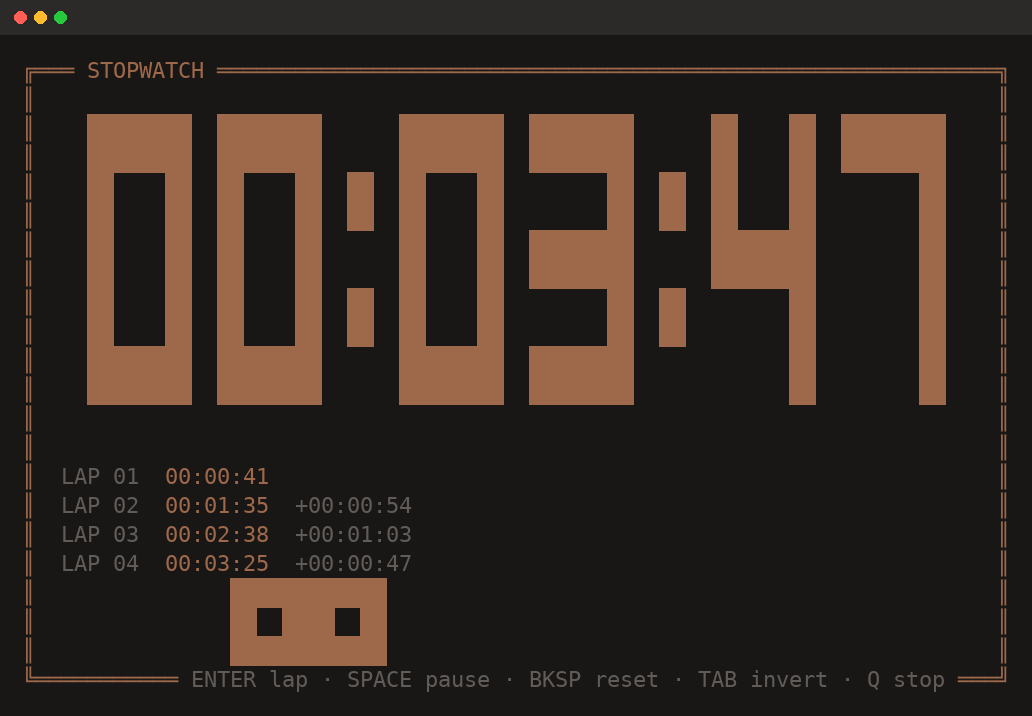
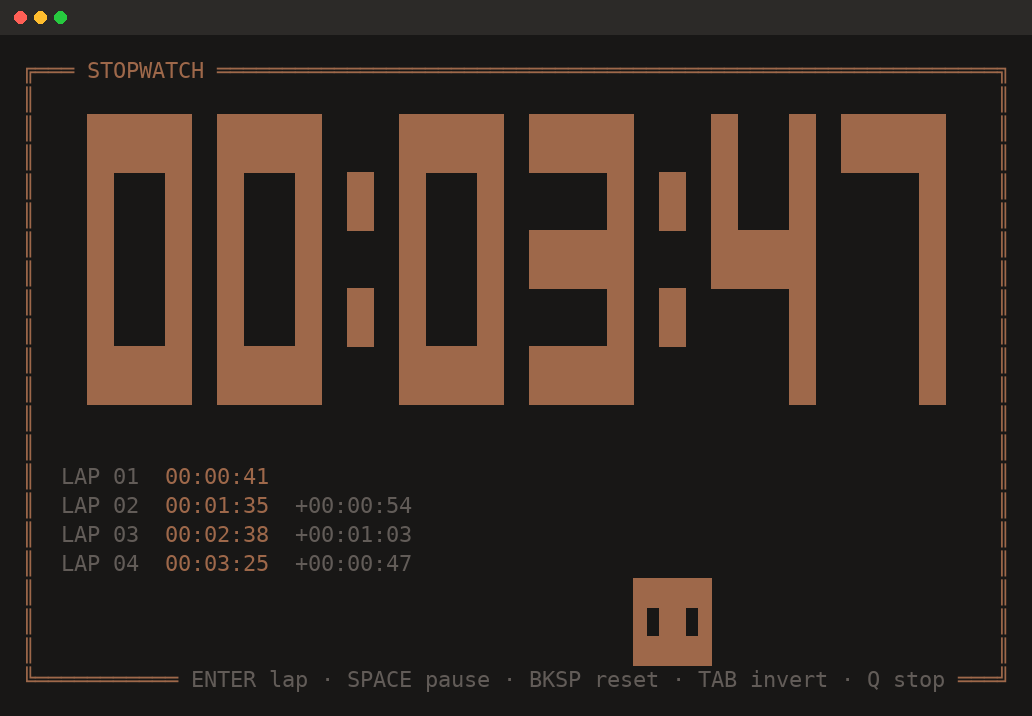
Shrink the slime, fix its blink, give it a random walk
Halve the width by dropping the 2x horizontal tile scaling. The old
blink blanked the top body row and filled the eye row, so what animated
was the line above the eyes rather than the eyes themselves; the body now
holds its shape and blinking only fills the two eye tiles. Replace the
wall-to-wall pacing with a random walk, whose position accumulates in
app.js so renderFrame stays a pure function of the state it is given.

Changed region(s): [[0.2171, 0.7989, 0.3721, 0.9525], [0.5891, 0.7989, 0.7132, 0.9525]]

diff --git a/lib/render.js b/lib/render.js
@@ -149,47 +149,24 @@ function buildLapLines(laps, theme, maxWidth, maxRows) {
   return lines;
 }
 
-// A slime built from the same tiles as the digits. '#' is a lit tile; the eyes
-// are left blank so the row background shows straight through them.
-const SLIME_PIXEL_W = 2;
-const SLIME_ROWS = 3;
-const SLIME_SPRITES = {
-  // Stretched mid-hop, then squashed on landing. Alternating the two while it
-  // travels sideways reads as a hop without needing a taller band.
-  stretch: ['######', '# ## #', '######'],
-  squash: ['      ', '# ## #', '######'],
-  // Eyes closed: asleep while paused, and for a single tick when blinking.
-  shut: ['      ', '######', '######'],
-};
-const SLIME_PIXELS = SLIME_SPRITES.stretch[0].length;
-const SLIME_WIDTH = SLIME_PIXELS * SLIME_PIXEL_W;
+// A slime built from the same tiles as the digits. The eyes are unlit tiles in
+// the middle row — enclosed on every side, so they read as holes in a face
+// rather than notches in the silhouette — and closing them just fills those
+// two tiles back in. The body never changes shape, so nothing flickers.
+const SLIME_OPEN = ['██████', '█ ██ █', '██████'];
+const SLIME_SHUT = ['██████', '██████', '██████'];
+const SLIME_WIDTH = SLIME_OPEN[0].length;
+const SLIME_ROWS = SLIME_OPEN.length;
+const SLIME_MARGIN = 1;
 const BLINK_EVERY = 24;
 
-const SLIME_MARGIN = 1;
+function buildSlimeRows(tick, paused, interior, color, x) {
+  const maxX = Math.max(SLIME_MARGIN, interior - SLIME_WIDTH - SLIME_MARGIN);
+  const left = Math.min(maxX, Math.max(SLIME_MARGIN, x));
+  const asleep = paused || tick % BLINK_EVERY === BLINK_EVERY - 1;
 
-function slimeSprite(tick, paused) {
-  if (paused) return SLIME_SPRITES.shut;
-  // Offset so tick 0 is not a blink — the first frame should have eyes.
-  if (tick % BLINK_EVERY === BLINK_EVERY - 1) return SLIME_SPRITES.shut;
-  return tick % 2 === 0 ? SLIME_SPRITES.stretch : SLIME_SPRITES.squash;
-}
-
-// Bounces between the two walls. Derived purely from the tick so the frame
-// stays a function of state.
-function slimeX(tick, span) {
-  if (span <= 0) return 0;
-  const p = tick % (span * 2);
-  return p < span ? p : span * 2 - p;
-}
-
-function buildSlimeRows(tick, paused, interior, color) {
-  const span = interior - SLIME_WIDTH - SLIME_MARGIN * 2;
-  const x = SLIME_MARGIN + slimeX(tick, span);
-  const sprite = slimeSprite(tick, paused);
-  return sprite.map((row) => {
-    let body = '';
-    for (const px of row) body += (px === '#' ? '█' : ' ').repeat(SLIME_PIXEL_W);
-    const line = ' '.repeat(x) + body;
+  return (asleep ? SLIME_SHUT : SLIME_OPEN).map((row) => {
+    const line = ' '.repeat(left) + row;
     return fg(...color, line) + ' '.repeat(Math.max(0, interior - visibleLength(line)));
   });
 }
@@ -212,6 +189,7 @@ function renderFrame({
   paused = false,
   tick = 0,
   slime = true,
+  slimeX = 0,
 }) {
   const width = Math.max(cols, 20);
   const height = Math.max(rows, 10);
@@ -252,7 +230,7 @@ function renderFrame({
     slime &&
     interior >= SLIME_WIDTH + SLIME_MARGIN * 2 &&
     interiorHeight - contentBlock.length >= SLIME_ROWS + 1;
-  const slimeRows = showSlime ? buildSlimeRows(tick, paused, interior, color) : [];
+  const slimeRows = showSlime ? buildSlimeRows(tick, paused, interior, color, slimeX) : [];
 
   // Laps sit flush against the bottom-left, claiming rows from the bottom
   // padding only — the digits stay centered in whatever space is left, so a
@@ -289,4 +267,4 @@ function renderFrame({
   return out.map((line) => bg + line + RESET).join('\r\n');
 }
 
-module.exports = { renderFrame, formatTime };
+module.exports = { renderFrame, formatTime, SLIME_WIDTH, SLIME_MARGIN };

diff --git a/lib/app.js b/lib/app.js
@@ -1,7 +1,7 @@
 'use strict';
 
 const { parseDuration } = require('./parseDuration');
-const { renderFrame, formatTime } = require('./render');
+const { renderFrame, formatTime, SLIME_WIDTH, SLIME_MARGIN } = require('./render');
 const {
   HIDE_CURSOR,
   SHOW_CURSOR,
@@ -132,7 +132,23 @@ function run(argv) {
   let inverted = args.invert;
   let paused = false;
   let tick = 0;
+  let slimeX = -1; // -1 until the first step centers it
   const laps = [];
+
+  // The slime wanders instead of pacing: each step is left, right or a beat
+  // standing still. Position accumulates here rather than in the renderer so
+  // renderFrame stays a pure function of the state handed to it.
+  function stepSlime() {
+    const interior = (process.stdout.columns || 80) - 2;
+    const maxX = Math.max(SLIME_MARGIN, interior - SLIME_WIDTH - SLIME_MARGIN);
+    if (slimeX < 0) {
+      slimeX = Math.floor((SLIME_MARGIN + maxX) / 2);
+      return;
+    }
+    const roll = Math.random();
+    const step = roll < 0.25 ? 0 : roll < 0.625 ? -1 : 1;
+    slimeX = Math.min(maxX, Math.max(SLIME_MARGIN, slimeX + step));
+  }
 
   function draw() {
     const frame = renderFrame({
@@ -149,6 +165,7 @@ function run(argv) {
       paused,
       tick,
       slime: args.slime,
+      slimeX,
     });
     process.stdout.write(CURSOR_HOME + frame);
   }
@@ -231,6 +248,7 @@ function run(argv) {
   process.on('SIGINT', () => cleanup(0));
   process.on('SIGTERM', () => cleanup(0));
 
+  if (args.slime) stepSlime(); // center it before the first paint
   draw();
   interval = setInterval(() => {
     if (paused) return;
@@ -256,6 +274,7 @@ function run(argv) {
     animInterval = setInterval(() => {
       if (paused) return;
       tick += 1;
+      stepSlime();
       draw();
     }, 250);
   }

diff --git a/README.md b/README.md
@@ -74,20 +74,20 @@ Stopped — elapsed 00:03:47
 
 ### The slime
 
-A slime hops along the floor of the box while the timer runs. It is built from
-the same tiles as the digits, and its two eyes are simply left unpainted so the
-background shows through them.
+A small slime wanders along the floor of the box while the timer runs. It is
+built from the same tiles as the digits, and its two eyes are simply left
+unpainted so the background shows through them.
 
 ```
-  ████████████        ████████████
-  ██  ████  ██        ████████████
-  ████████████        ████████████
-     hopping             asleep
+  ██████          ██████
+  █ ██ █          ██████
+  ██████          ██████
+   awake           asleep
 ```
 
-It squashes and stretches as it bounces wall to wall, blinks now and then, and
-curls up with its eyes shut while the timer is paused. Hide it with
-`--no-slime`.
+It moves by random walk, so it drifts around instead of pacing a fixed route.
+It blinks now and then, and shuts its eyes and stays put while the timer is
+paused. Hide it with `--no-slime`.
 
 ### Themes
 
